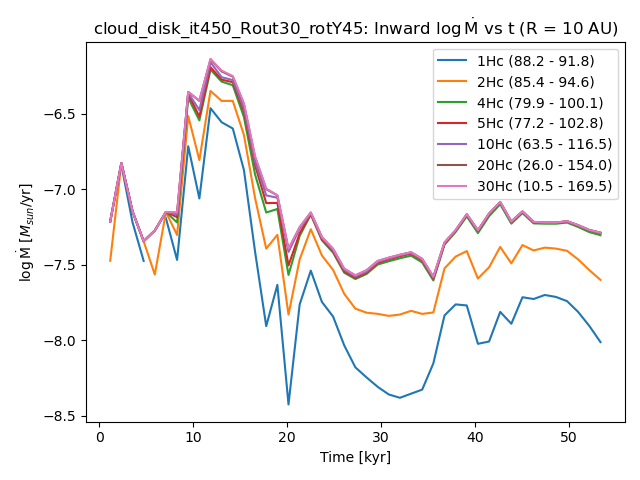
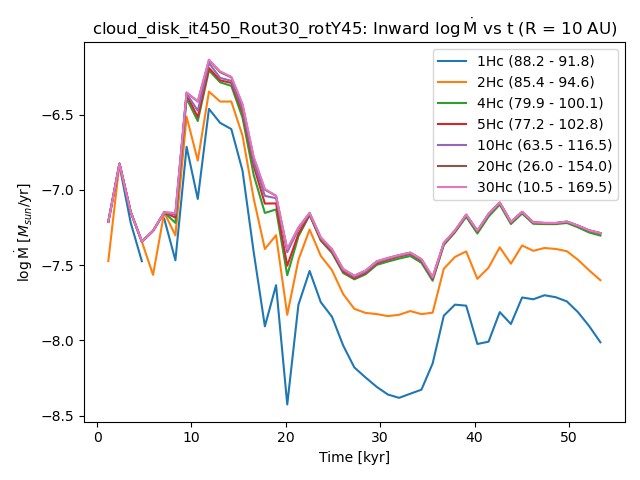
calc theoretical mass accretion rate

diff --git a/check_mass.py b/check_mass.py
@@ -93,58 +93,58 @@ def sph_cell_area_2D(r, theta):
 ###################################### Numerically integrating for the disk mass ##########################################
 
 
-# Disk parameters from corresponding nocloud_nocomp par file
-folder = Path("nocloud_nocomp_it10/")                                  # Folder with the output files
-it = 10                                                                # FARGO snapshot of interest
-sim_params = load_par_file(f"{folder}/{folder}.par")                   # Loading simulation parameters from the .par file
+def main():
+    
+    # Disk parameters from corresponding nocloud_nocomp par file
+    folder = Path("nocloud_nocomp_it10/")                                  # Folder with the output files
+    it = 10                                                                # FARGO snapshot of interest
+    sim_params = load_par_file(f"{folder}/{folder}.par")                   # Loading simulation parameters from the .par file
 
-R0 = 5.2 * au                         # As defined in FARGO3D [cm]
-Rin = 10. * au                        # Disk inner radius in cm (corresponds to Ymin in mesh parameters) 
-Rout = 100. * au                      # Disk outer radius in cm (corresponds to Rout in disk parameters)
-sigma0 = sim_params['Sigma0']         # Surface density at R0 in g/cm^2
-p = sim_params['SigmaSlope']          # Negative surface density power law slope
-f = sim_params['FlaringIndex']        # Flaring index
-h0 = sim_params['AspectRatio']        # Aspect ratio 
-theta_min = 0.17453292519943          # Theta lower limit (corresponds to Zmin in mesh params, 10 deg)
-theta_max = 2.96705972839036          # Theta upper limit (corresponds to Zmax in mesh params, 170 deg)
-# phi_min = - np.pi                     # Phi lower limit (corresponds to Xmin in mesh params)
-# phi_max = np.pi                       # Phi lower limit (corresponds to Xmax in mesh params)
+    R0 = 5.2 * au                         # As defined in FARGO3D [cm]
+    Rin = 10. * au                        # Disk inner radius in cm (corresponds to Ymin in mesh parameters) 
+    Rout = 100. * au                      # Disk outer radius in cm (corresponds to Rout in disk parameters)
+    sigma0 = sim_params['Sigma0']         # Surface density at R0 in g/cm^2
+    p = sim_params['SigmaSlope']          # Negative surface density power law slope
+    f = sim_params['FlaringIndex']        # Flaring index
+    h0 = sim_params['AspectRatio']        # Aspect ratio 
+    theta_min = 0.17453292519943          # Theta lower limit (corresponds to Zmin in mesh params, 10 deg)
+    theta_max = 2.96705972839036          # Theta upper limit (corresponds to Zmax in mesh params, 170 deg)
+    # phi_min = - np.pi                     # Phi lower limit (corresponds to Xmin in mesh params)
+    # phi_max = np.pi                       # Phi lower limit (corresponds to Xmax in mesh params)
 
-theta = np.linspace(theta_min, theta_max, sim_params['Nz'])                           # Theta array
-r = np.logspace(np.log10(Rin / au), np.log10(Rout / au), sim_params['Ny']) * au       # Radius array
-# phi = np.linspace(phi_min, phi_max, sim_params['Nx'])
+    theta = np.linspace(theta_min, theta_max, sim_params['Nz'])                           # Theta array
+    r = np.logspace(np.log10(Rin / au), np.log10(Rout / au), sim_params['Ny']) * au       # Radius array
+    # phi = np.linspace(phi_min, phi_max, sim_params['Nx'])
 
-# Centering the cells
-r_c = 0.5 * (r[:-1] + r[1:])
-theta_c = 0.5 * (theta[:-1] + theta[1:])
-# phi_c = 0.5 * (phi[:-1] + phi[1:])
+    # Centering the cells
+    r_c = 0.5 * (r[:-1] + r[1:])
+    theta_c = 0.5 * (theta[:-1] + theta[1:])
+    # phi_c = 0.5 * (phi[:-1] + phi[1:])
 
-# Converting to cylindrical coordinates
-THETA, R = np.meshgrid(theta_c, r_c, indexing="ij")
-RCYL = R * np.sin(THETA)
-ZCYL = R * np.cos(THETA)
-# X = R * np.sin(THETA) * np.cos(PHI)
-# Y = R * np.sin(THETA) * np.sin(PHI)
-# RCYL = R * np.sin(THETA)
-# ZCYL = R * np.cos(THETA)
+    # Converting to cylindrical coordinates
+    THETA, R = np.meshgrid(theta_c, r_c, indexing="ij")
+    RCYL = R * np.sin(THETA)
+    ZCYL = R * np.cos(THETA)
+    # X = R * np.sin(THETA) * np.cos(PHI)
+    # Y = R * np.sin(THETA) * np.sin(PHI)
+    # RCYL = R * np.sin(THETA)
+    # ZCYL = R * np.cos(THETA)
 
-# Calculating and plotting the surface density profile
-sigma_r = surf_dens_profile(sigma0, p, R0, r_c, Rout, plot=False)
-print(sigma_r.shape)
+    # Calculating and plotting the surface density profile
+    sigma_r = surf_dens_profile(sigma0, p, R0, r_c, Rout, plot=False)
+    print(sigma_r.shape)
 
-# Calculating and plotting the density profile
-rho_r = dens_profile(sigma_r, h0, R0, RCYL, f, ZCYL, plot=False)
+    # Calculating and plotting the density profile
+    rho_r = dens_profile(sigma_r, h0, R0, RCYL, f, ZCYL, plot=False)
 
-# Calculating total disk mass
-S = sph_cell_area_2D(r, theta)
-disk_mass_theoretical = np.sum(sigma_r * S)
-# disk_mass_theoretical = np.sum(rho_r * S)
+    # Calculating total disk mass
+    S = sph_cell_area_2D(r, theta)
+    disk_mass_theoretical = np.sum(sigma_r * S)
+    # disk_mass_theoretical = np.sum(rho_r * S)
 
 
 #################################### Adding up mass from the simulation ######################################
 
-
-def main():
 
     disk_folder = Path("../nocloud_nocomp_it10/")                      # Folder with the output files
     disk_fig_imgs = Path("nocloud_nocomp_it10/imgs/")                  # Folder to save images

diff --git a/accretion.py b/accretion.py
@@ -18,12 +18,13 @@ ninterm = 200             # Total number of timesteps between outputs in FARGO s
 stoky = 3.156e7 * 1e3     # 1 kyr in sec
 
 
-def scale_height(r0, h0, R0, f):
+def scale_height(r, h0, R0, f):
     """
     Calculates the scale height of the disk at a given radius r0
 
     Inputs:
     ------
+    r:            Radius at which pressure scale height is calcualted [cm] (float)
     h0:           Aspect ratio (float)
     R0:           Radius at which aspect ratio is defined (FARGO3D standard) [cm] (float)
     f:            Disk flaring index (float)
@@ -33,7 +34,7 @@ def scale_height(r0, h0, R0, f):
     Hc:           Scale height at given radius r0 [cm]
     """
 
-    Hc = h0 * r0 * np.power(r0 / R0, f)             
+    Hc = h0 * r * np.power(r / R0, f)             
     return Hc 
 
 
@@ -107,14 +108,19 @@ def calc_accretion(rho, vr, theta, r0, r0_id, phi, max_height, Msun):
     return dotM_total, dotM_in, dotM_out
 
 
-def calc_accretion_theoretical():
+def calc_accretion_theoretical(sigma, H, ok, alpha):
     """
     Function to calculate the theoretical mass accretion values Mdot = 3 pi sigma nu
     
     Inputs:
     -------
-
     """
+
+    cs = H * ok                                     # Isothermal sound speed [cm/s]
+    nu = alpha * cs**2 / ok                         # Viscosity (?) [cgs]
+    Mdot_theo = 3 * np.pi * sigma * nu              # Theoretical mass accretion rate [g/s]
+    Mdot_theo = Mdot_theo / Msun * stoky / 1e3      # Theoretical mass accretion rate [Msun/yr]
+    return Mdot_theo
 
 
 def main():
@@ -132,6 +138,9 @@ def main():
     p = get_param_value('SigmaSlope', sim_name)        # Power law slope of surface densities
     sigma0 = get_param_value('Sigma0', sim_name)       # Midplane surface density at R0 [g/cm^3]
     alpha = get_param_value('Alpha', sim_name)         # Alpha viscosity value
+    Rin = get_param_value('Ymin', sim_name)            # Disk inner radius [cm]
+    Rout = get_param_value('Rout', sim_name)           # Disk outer radius [cm]
+    Nr = get_param_value('Ny', sim_name)               # Radial resolution (in FARGO3D, x=theta, y=r, z=phi)
     R0 = 5.2 * au                                      # As defined in FARGO3D [cm]
     
 
@@ -176,6 +185,8 @@ def main():
     dotM_tot_allit = []
     dotM_in_allit = []
     dotM_out_allit = []
+    Hc = scale_height(domains["r"][0], h0, R0, f)
+    zmax = 4 * Hc
     for i in range(len(allit_years)):
         dotM_tot_i, dotM_in_i, dotM_out_i = calc_accretion(rho_allit[i], vrad_allit[i], domains["theta"], r0, 0, domains["phi"], zmax, Msun)
         dotM_tot_allit.append(dotM_tot_i)
@@ -203,6 +214,7 @@ def main():
 
 
     # Defining max heights and the corresponding plot labels
+    Hc = scale_height(domains["r"][0], h0, R0, f)
     zmax_array = [Hc, 2 * Hc, 4 * Hc, 5 * Hc, 10 * Hc, 20 * Hc, 30 * Hc]
     zmax_labels = {}
 
@@ -262,8 +274,18 @@ def main():
     ################################# Compare theoretical and actual mass accretion ###################################
 
 
-    omega_k = omega_kepler(Mstar, domains["r"])
+    r_theo = np.logspace(np.log10(Rin / au), np.log10(Rout / au), Nr) * au       # Radius array
+    omega_k = omega_kepler(Mstar, r_theo)                                        # Keplerian velocities
+    Hc_arr = scale_height(r_theo, h0, R0, f)                                     # Pressure scale heights 
+    sigma = surf_dens_profile(sigma0, p, R0, r_theo, Rout, plot=False)           # Surface densities
+    Mdot_theo = calc_accretion_theoretical(sigma, Hc_arr, omega_k, alpha)        # Theoretical mass accretion rate
 
+    plt.plot(np.log10(r_theo/au), Mdot_theo)
+    plt.xlabel("logR")
+    plt.ylabel(r"$\mathrm{\log\dot{M}}$ [$M_{sun}$/yr]")
+    plt.title("Theoretical Mass Accretion Rate")
+    plt.show()
+    ebvkevnke
 
 
     ########################### Check accretion at different radii for different max heights #############################
